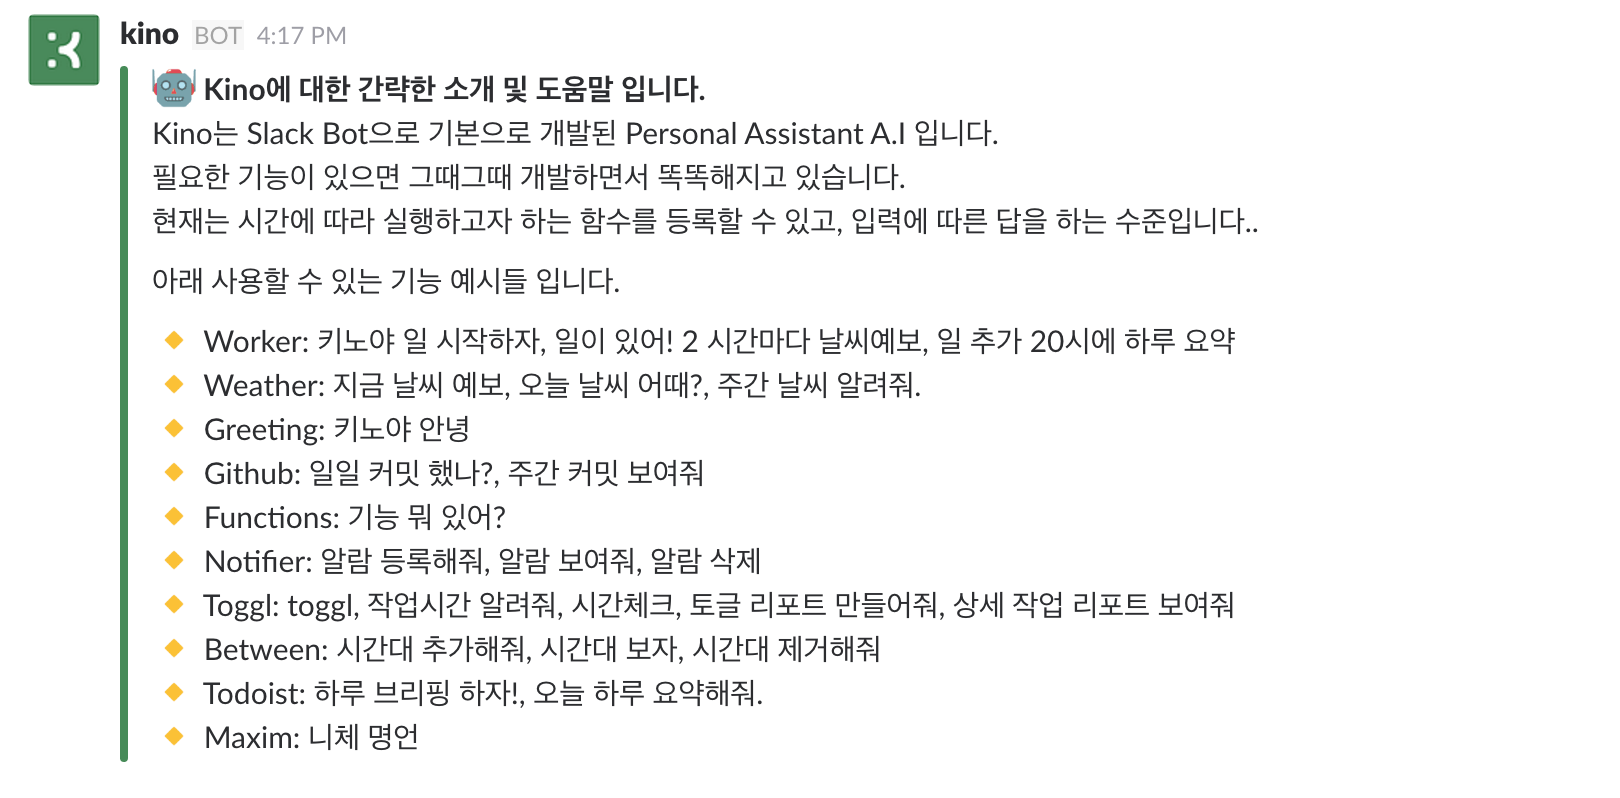
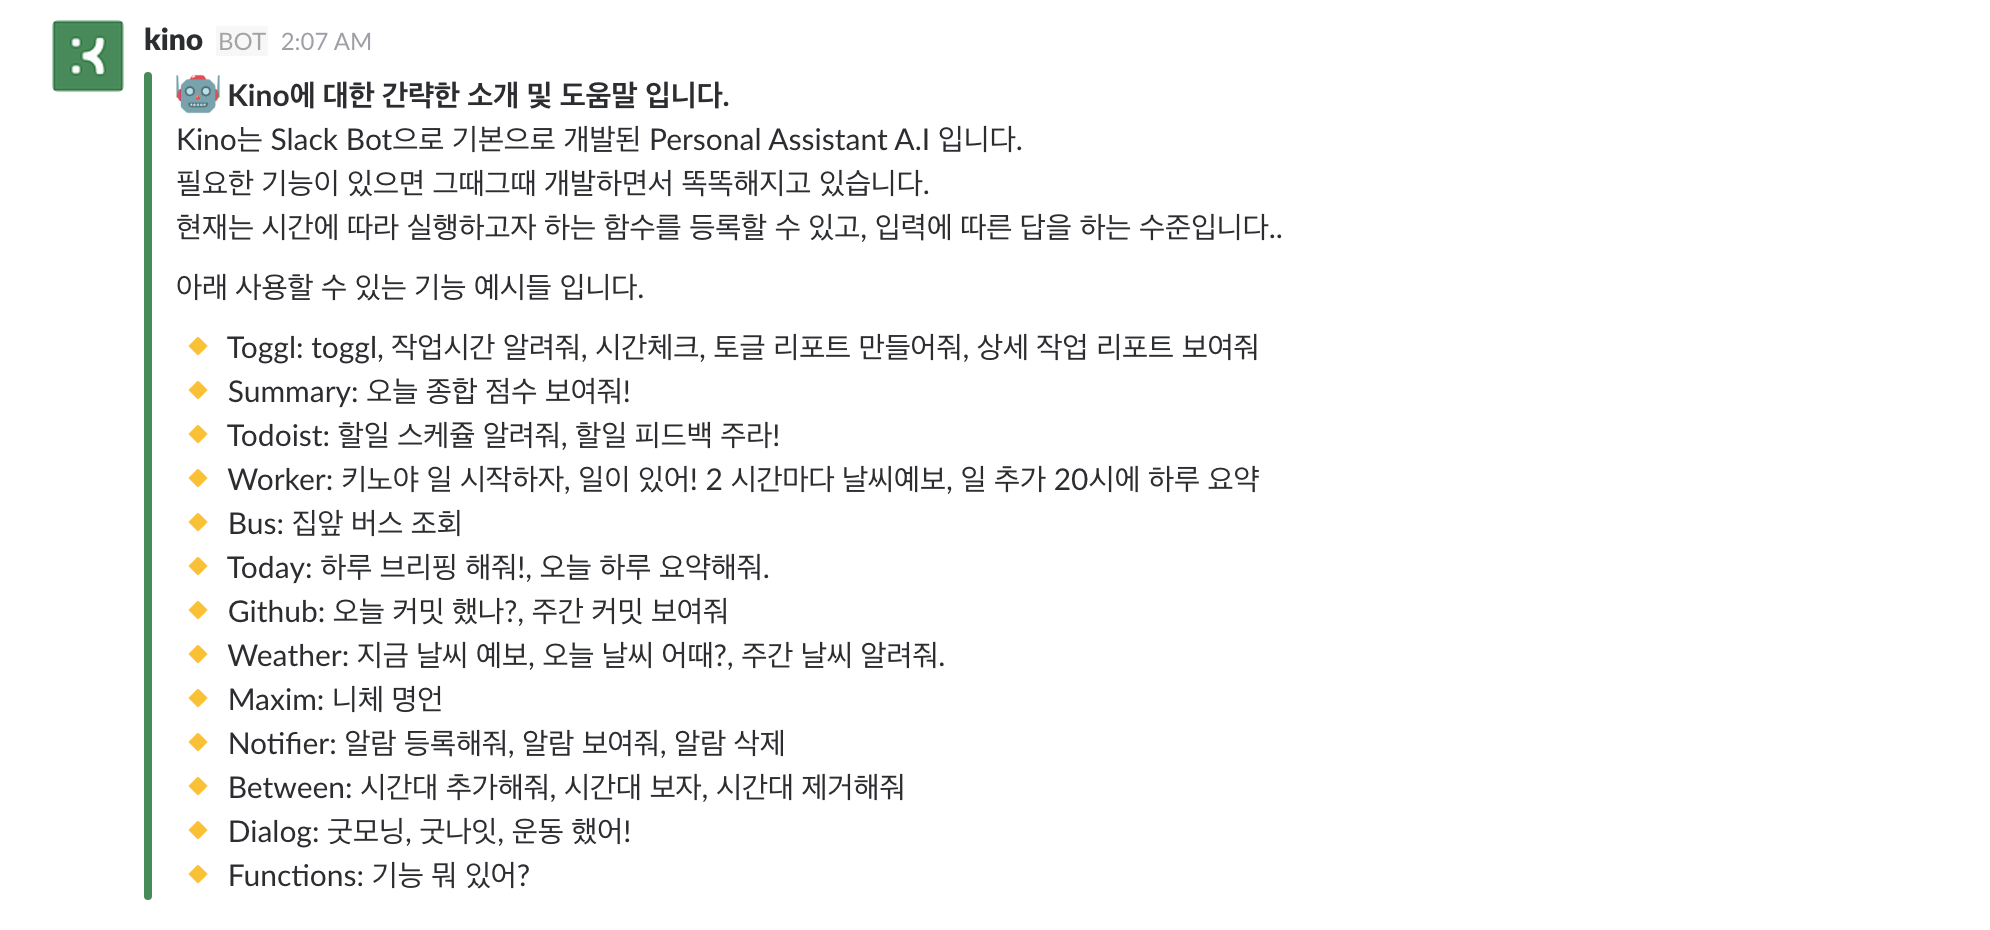
feat(intro): edit README (update help, images)

Changed region(s): [[0.0, 0.0, 0.7716, 0.9624]]

diff --git a/kino/kino/help.py b/kino/kino/help.py
@@ -19,15 +19,18 @@ class Guide(object):
 
     def __example(self):
         example = {
-            "Greeting": "키노야 안녕",
+            "Dialog": "굿모닝, 굿나잇, 운동 했어!",
             "Worker": "키노야 일 시작하자, 일이 있어! 2 시간마다 날씨예보, 일 추가 20시에 하루 요약",
             "Notifier": "알람 등록해줘, 알람 보여줘, 알람 삭제",
             "Between": "시간대 추가해줘, 시간대 보자, 시간대 제거해줘",
             "Functions": "기능 뭐 있어?",
             "Weather": "지금 날씨 예보, 오늘 날씨 어때?, 주간 날씨 알려줘.",
-            "Todoist": "하루 브리핑 하자!, 오늘 하루 요약해줘.",
-            "Github": "일일 커밋 했나?, 주간 커밋 보여줘",
+            "Today": "하루 브리핑 해줘!, 오늘 하루 요약해줘.",
+            "Todoist": "할일 스케쥴 알려줘, 할일 피드백 주라!",
+            "Github": "오늘 커밋 했나?, 주간 커밋 보여줘",
             "Toggl": "toggl, 작업시간 알려줘, 시간체크, 토글 리포트 만들어줘, 상세 작업 리포트 보여줘",
-            "Maxim": "니체 명언"
+            "Maxim": "니체 명언",
+            "Bus": "집앞 버스 조회",
+            "Summary": "오늘 종합 점수 보여줘!"
         }
         return example

diff --git a/README.md b/README.md
@@ -54,5 +54,6 @@
 
 ## Features
 
-![functions](images/functions.png)
+![functions](images/functions1.png)
+![functions](images/functions2.png)
 
